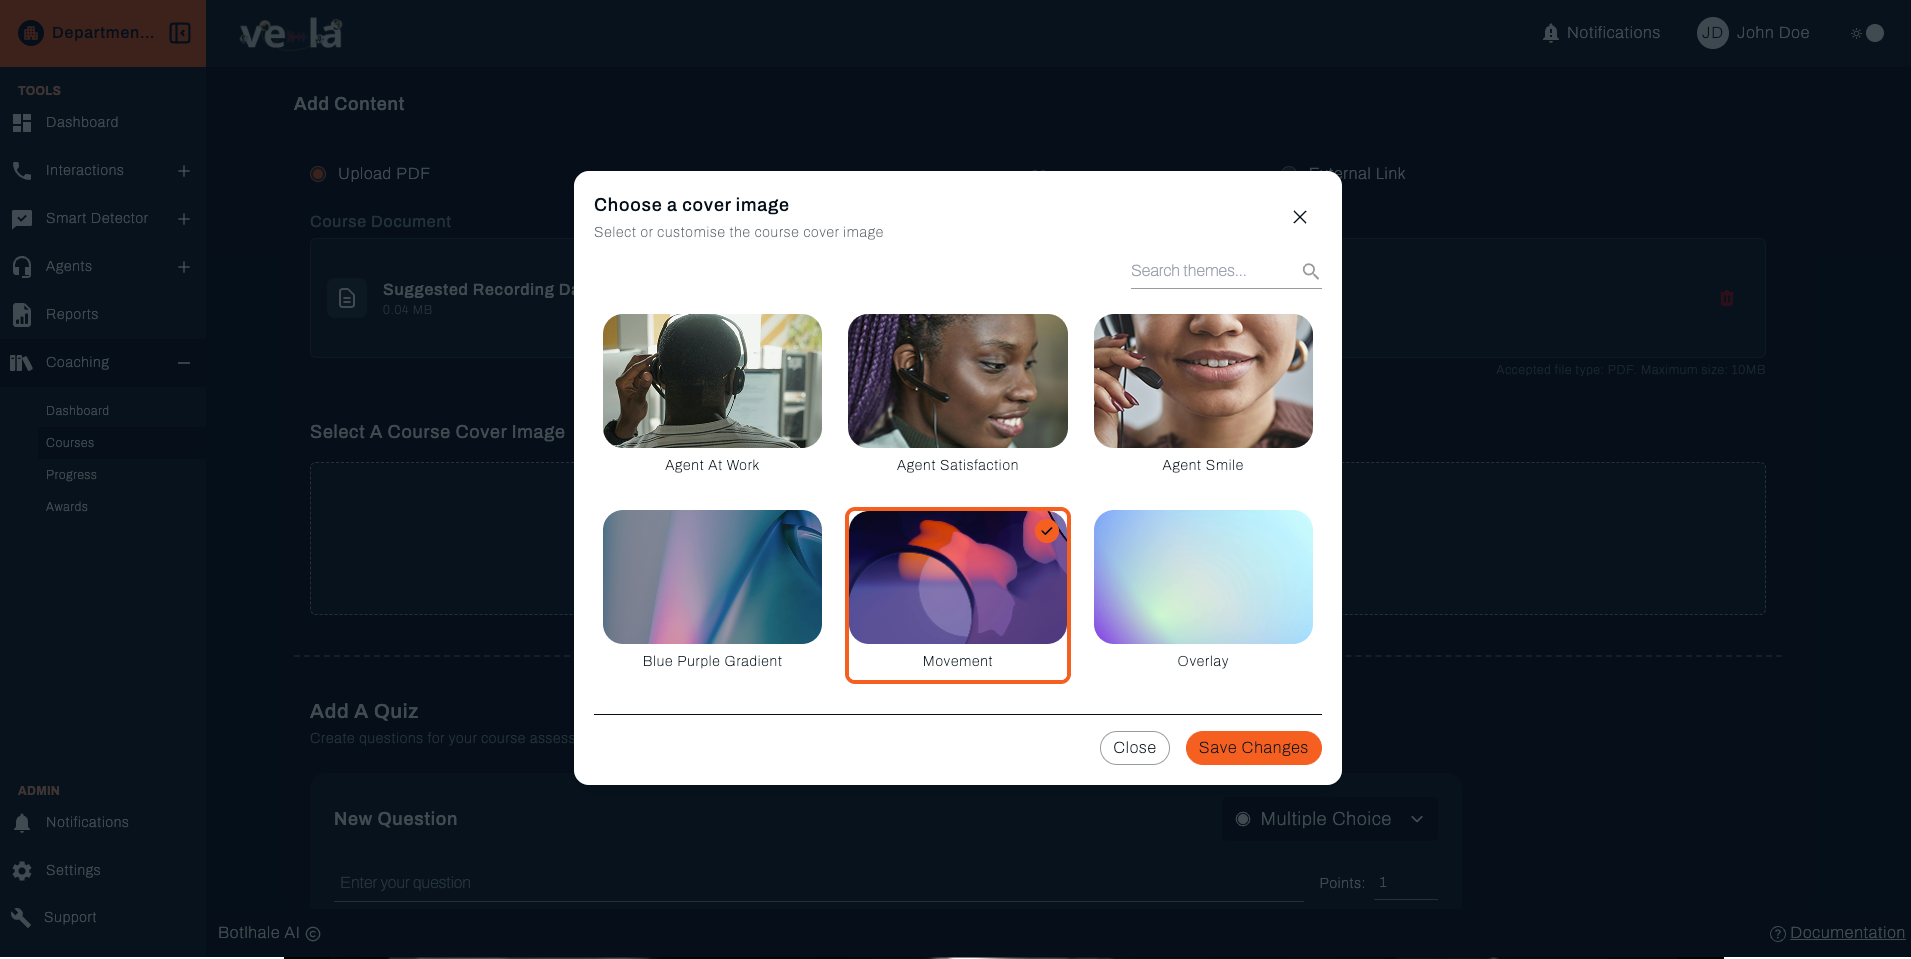
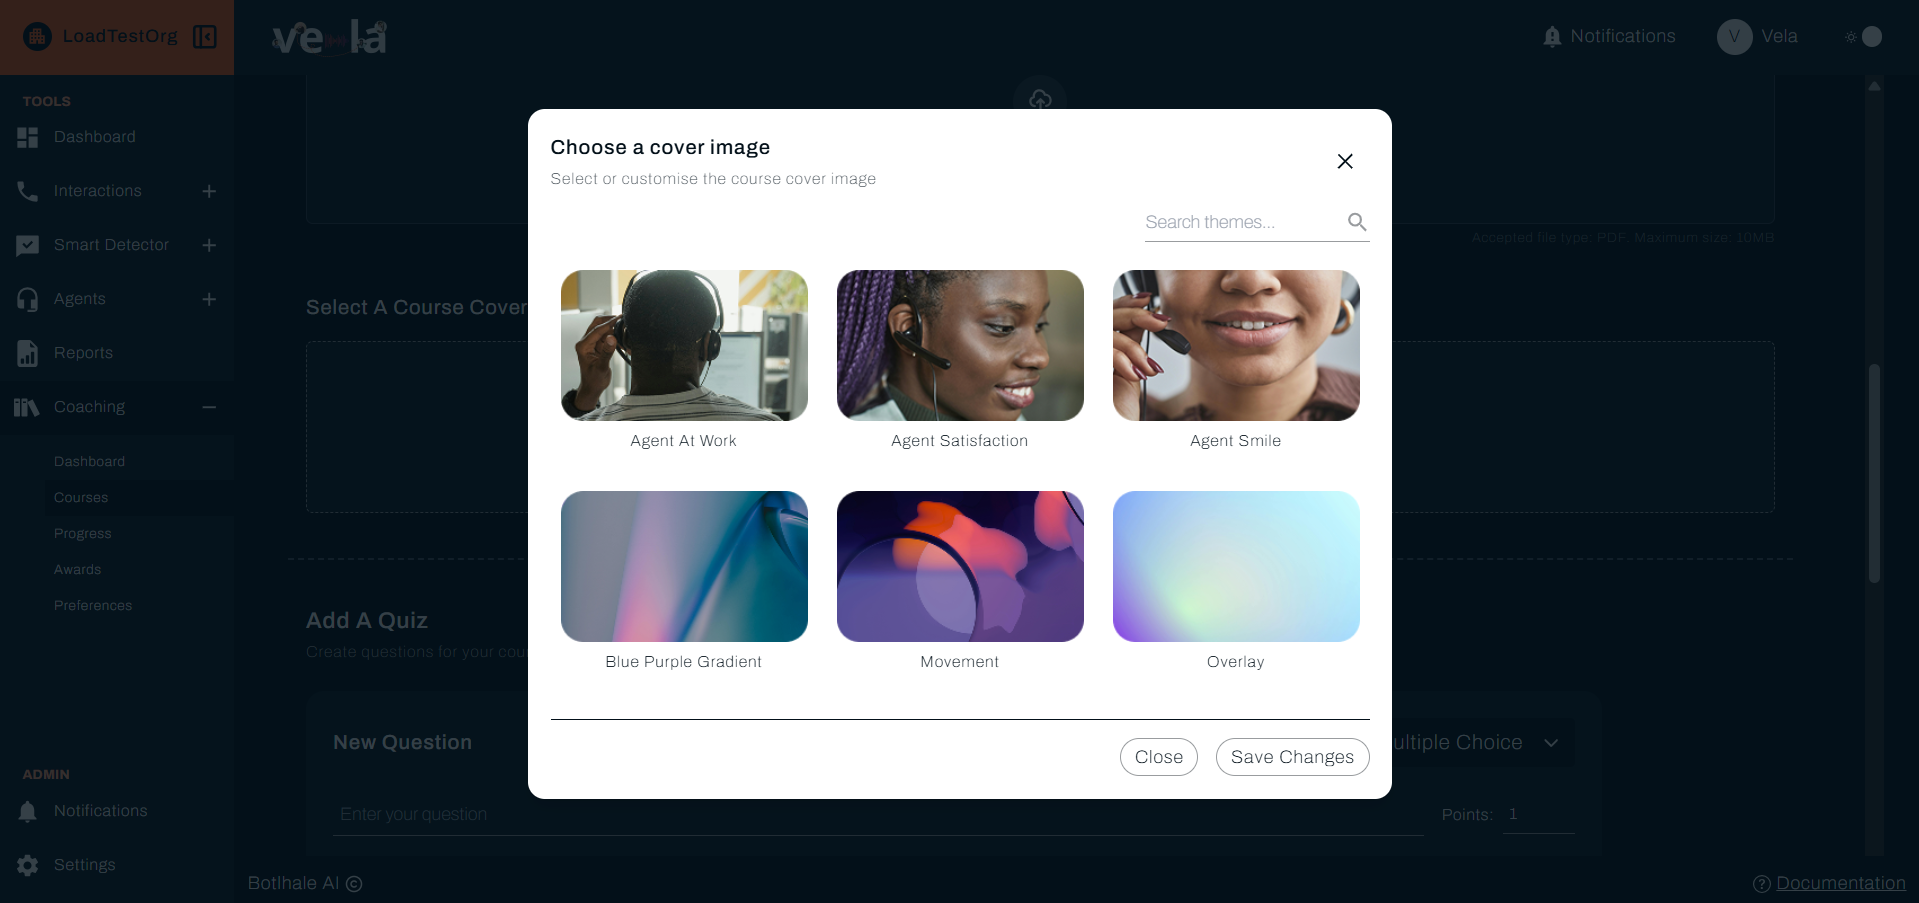
docs: reshoot leaky course captures, fix alt-text escaping
Swaps new-course4.png and create-course-choose-theme.png for clean
captures with no Support or Cautions in the sidebar, and repositions
the retakes Hotspot pins for the new framing. Drops
create-course-deadlines.png: it showed the same step the Hotspots
figure above it already covers, from a session that leaked Support.

diff --git a/docs/team-leads/create-and-assign-courses.md b/docs/team-leads/create-and-assign-courses.md
@@ -130,11 +130,11 @@ These three sit together below the quiz, and they decide how much room an agent 
 
 <Hotspots
   src={retakesImg}
-  alt="Quiz Retakes, Deadline, and Set course nudges, each a control with its own info icon, stacked down the page"
+  alt="The Set Deadlines And Reminders step: Quiz Retakes, Deadline, and Set course nudges, each a control with its own info icon, stacked down the page above the Create Course and Close buttons"
   points={[
-    { x: 31.1, y: 11.8, title: 'Quiz Retakes', body: 'How many retakes an agent gets after a first attempt, from 1 to 5. New courses start at 3, which allows four attempts in total.' },
-    { x: 28.9, y: 27.6, title: 'Deadline', body: 'How long an agent has from the day the course is assigned to them, rather than a fixed date.' },
-    { x: 33.6, y: 44.5, title: 'Set course nudges', body: 'A reminder sent to an agent who has not finished, counted back from the due date.' },
+    { x: 31.1, y: 26, title: 'Quiz Retakes', body: 'How many retakes an agent gets after a first attempt, from 1 to 5. New courses start at 3, which allows four attempts in total.' },
+    { x: 28.9, y: 42, title: 'Deadline', body: 'How long an agent has from the day the course is assigned to them, rather than a fixed date. New courses start at 7 days.' },
+    { x: 33.6, y: 59, title: 'Set course nudges', body: 'A reminder sent to an agent who has not finished, counted back from the due date.' },
   ]}
 />
 
@@ -151,8 +151,6 @@ The pass percentage itself is set once for all courses under Preferences, not pe
 ### Deadline
 
 **Deadline** takes a count and a unit, and the unit is **Days**, **Weeks**, or **Months**. Each agent's **Due Date** is worked out from the day they receive it, so two agents who qualify on different cycles get the same amount of time rather than the same date.
-
-![Setting the deadline on a course](../../img/screenshots/team_lead/courses/create-course-deadlines.png)
 
 ### Set Course Nudges
 

diff --git a/docs/agents/your-awards.md b/docs/agents/your-awards.md
@@ -72,7 +72,7 @@ Select **Download** to save the certificate. It is yours to keep or share, and i
 | Supervisor | Your team lead's name |
 | Date | The dates the score covers, shown as a range rather than one day |
 
-![The award certificate as it downloads, titled Certificate of Achievement and carrying the agent's name, the award's category and score, and the dates the score covers](../../img/screenshots/agent_view/awards/award-template.png)
+![The award certificate as it downloads, titled Certificate of Achievement and carrying the agent name, the award category and score, and the dates the score covers](../../img/screenshots/agent_view/awards/award-template.png)
 
 {/* VERIFIED 2026-09-07 against a downloaded certificate (DemoOrg3, Vusi Zulu): headed "Certificate of Achievement", body "For extraordinary achievement in <category> with a score of <n>%", the description beneath it, "Jane Doe / Supervisor" bottom-left, "08/09/2025 - 08/10/2025 / Date" bottom-right, "Powered by Botlhale AI" in the corner. The award's own name is not printed. */}
 

diff --git a/docs/agents/your-interactions.md b/docs/agents/your-interactions.md
@@ -32,7 +32,7 @@ Three controls sit above the list:
 | **Sort** | Orders the list on a column you choose |
 | **Filter** | Opens a panel where you narrow the list, then select **Apply** |
 
-![The Calls list in the Agent Portal, showing the agent's own processed calls with the search, sort, and filter controls above it](../../img/screenshots/agent_view/interactions/interactions-calls-overview.png)
+![The Calls list in the Agent Portal, showing the processed calls for the signed-in agent with the search, sort, and filter controls above it](../../img/screenshots/agent_view/interactions/interactions-calls-overview.png)
 
 ![The sort control open on the interactions list, with the columns you can order by](../../img/screenshots/agent_view/interactions/interactions-sort.png)
 

diff --git a/docs/team-leads/recognise-good-work.md b/docs/team-leads/recognise-good-work.md
@@ -101,7 +101,7 @@ Select the **download** icon in the **Download** column to save that agent's cer
 
 ![The download icon on an award row, which saves the certificate](../../img/screenshots/team_lead/awards/download.png)
 
-![The certificate as it downloads, carrying the agent's name, the award's category and score, and the assessed period](../../img/screenshots/team_lead/awards/certificate.png)
+![The certificate as it downloads, carrying the agent name, the award category and score, and the assessed period](../../img/screenshots/team_lead/awards/certificate.png)
 
 Agents can download their own certificates from their portal, so this is for your records rather than for sending to them. See [View Your Awards](../agents/your-awards.md).
 

diff --git a/docs/team-leads/coaching-dashboard.md b/docs/team-leads/coaching-dashboard.md
@@ -85,7 +85,7 @@ Only categories with interactions in the period appear as columns.
 
 Below the two cards, every category gets its own section, with the category name as the heading and a **chevron** to collapse it.
 
-![One category's section, with the Average Agent Performance line chart and the grouped bar chart beside it](../../img/screenshots/team_lead/dashboard/category-performance.png)
+![A single category section, with the Average Agent Performance line chart and the grouped bar chart beside it](../../img/screenshots/team_lead/dashboard/category-performance.png)
 
 Each section holds two charts for that category alone:
 
